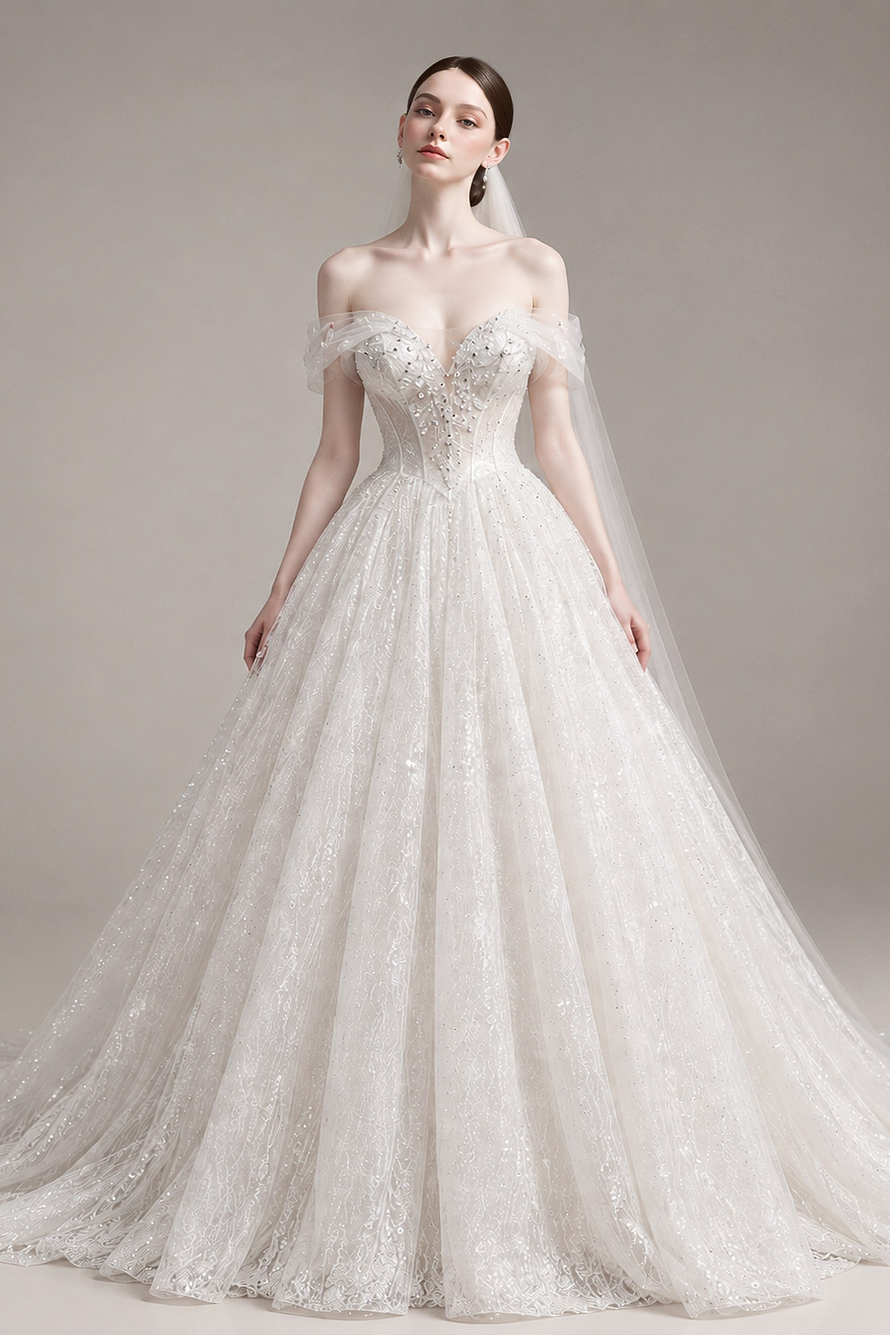
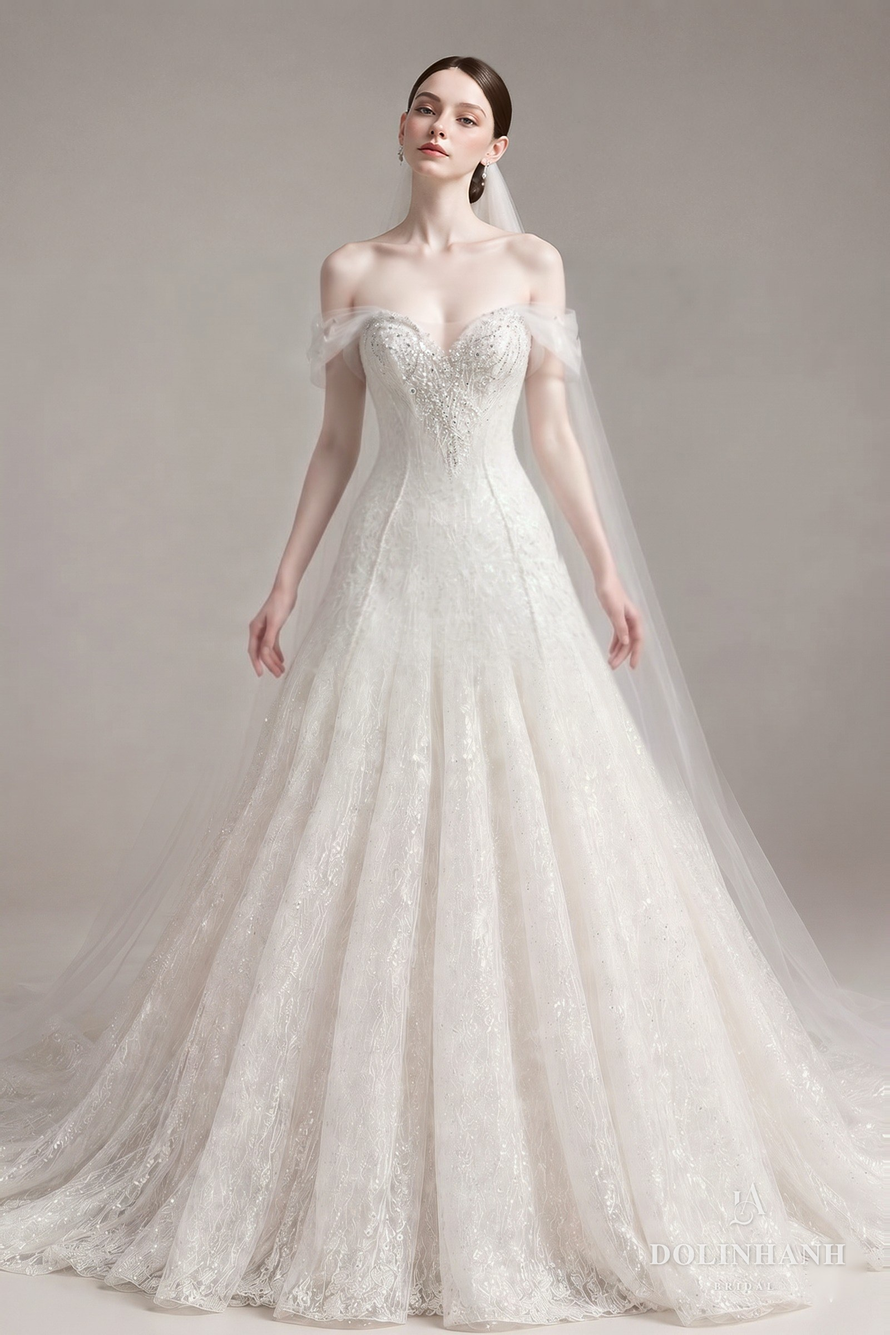
V185: MS 200: A-line, one piece from corset to hips

diff --git a/bo-suu-tap.html b/bo-suu-tap.html
@@ -1773,7 +1773,7 @@ src="https://www.facebook.com/tr?id=1358640082651240&ev=PageView&noscript=1"
         </figure>
         <figure data-dang="ballgown" data-mood="romantic" data-coso="hcm">
           <div class="sl-khung">
-            <div class="sl" data-img="anh/vay/ms200/01.jpg"></div>
+            <div class="sl" data-img="anh/vay/ms200/01.jpg?v=0511"></div>
           </div>
           <figcaption><span class="kind" data-en="Dolinhanh Bridal" data-zh="Dolinhanh Bridal">Dolinhanh Bridal</span><span class="nm">MS 200</span><span class="de" data-en="Floral lace, off-shoulder" data-zh="花朵蕾丝，一字肩">Ren hoa, trễ vai</span><span class="gia">US$1,880</span></figcaption>
         </figure>
